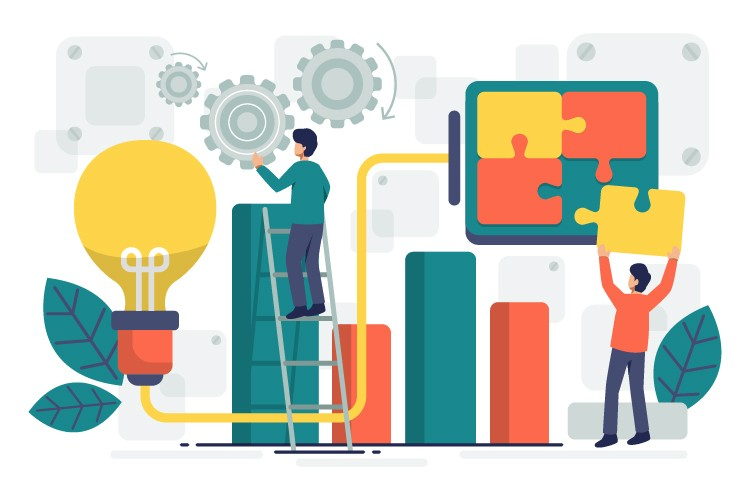
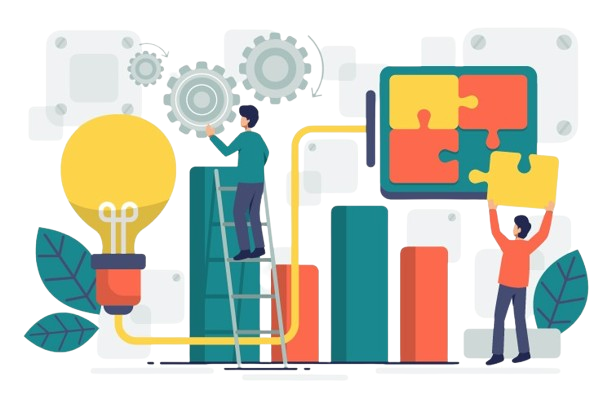
Chnges the imges

diff --git a/src/components/TimeLine.jsx b/src/components/TimeLine.jsx
@@ -3,8 +3,8 @@ import { motion } from "framer-motion";
 import { FaUserTie, FaBoxes, FaChartLine, FaRocket } from "react-icons/fa";
 // Import images
 import home1 from "../assets/home_1.jpg";
-import home2 from "../assets/home_2.png";
-import home3 from "../assets/home_3.png";
+import home2 from "../assets/home_2.jpg";
+import home3 from "../assets/home_3.jpg";
 import home4 from "../assets/home_4.jpg";
 
 const timelineData = [

diff --git a/src/pages/Internship.jsx b/src/pages/Internship.jsx
@@ -18,7 +18,7 @@ import PillButton from "../components/ui/PillButton";
 import Footer from "../components/Footer";
 
 import intern_s1 from "../assets/intern_s1.jpg";
-import intern_s2 from "../assets/intern_s2.png";
+import intern_s2 from "../assets/intern_s2.jpg";
 import intern_s3 from "../assets/intern_s3.jpg";
 import intern_s4 from "../assets/intern_s4.jpg";
 import intern_s5 from "../assets/intern_s5.jpg";
